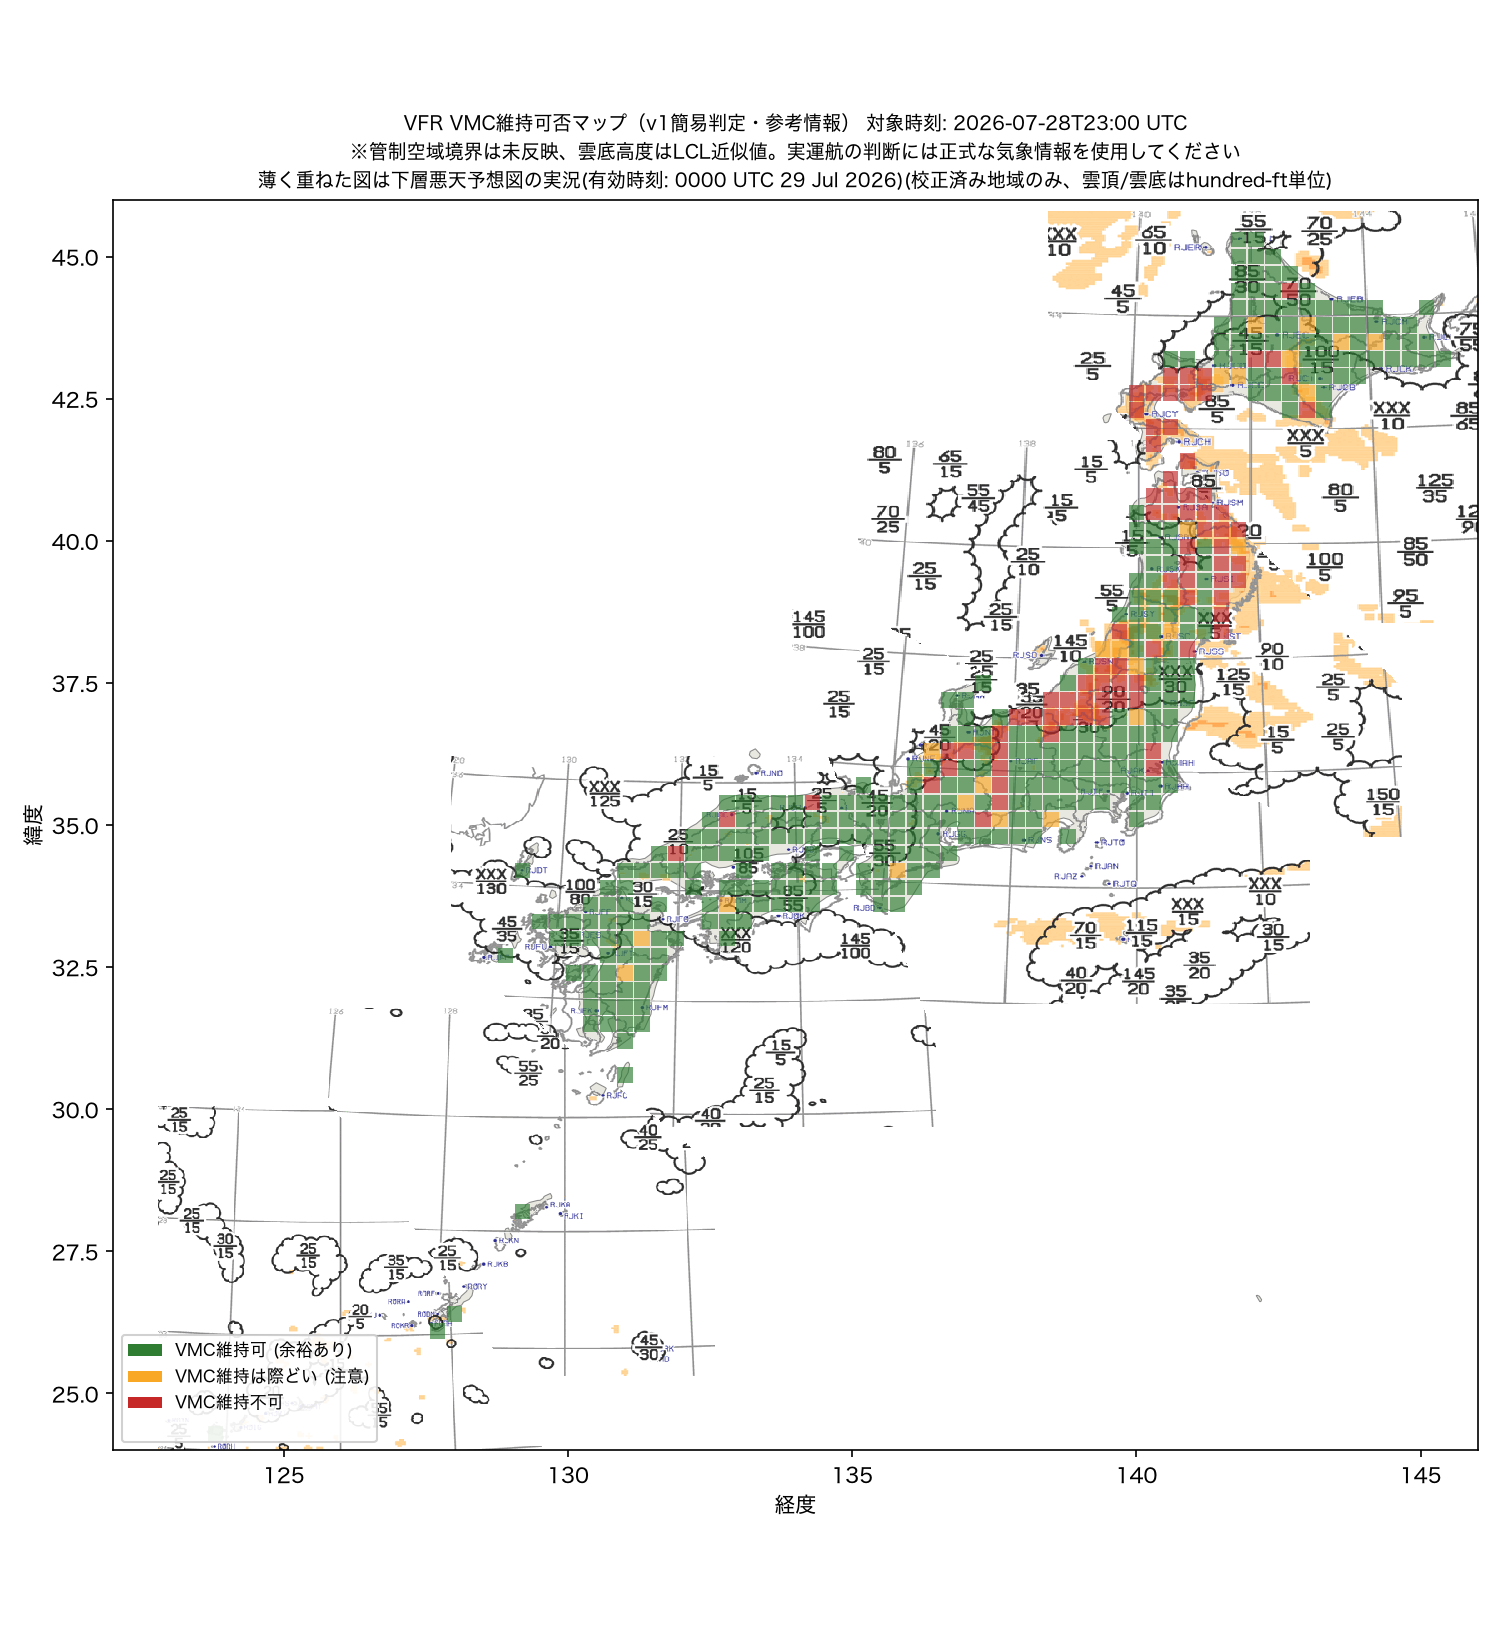
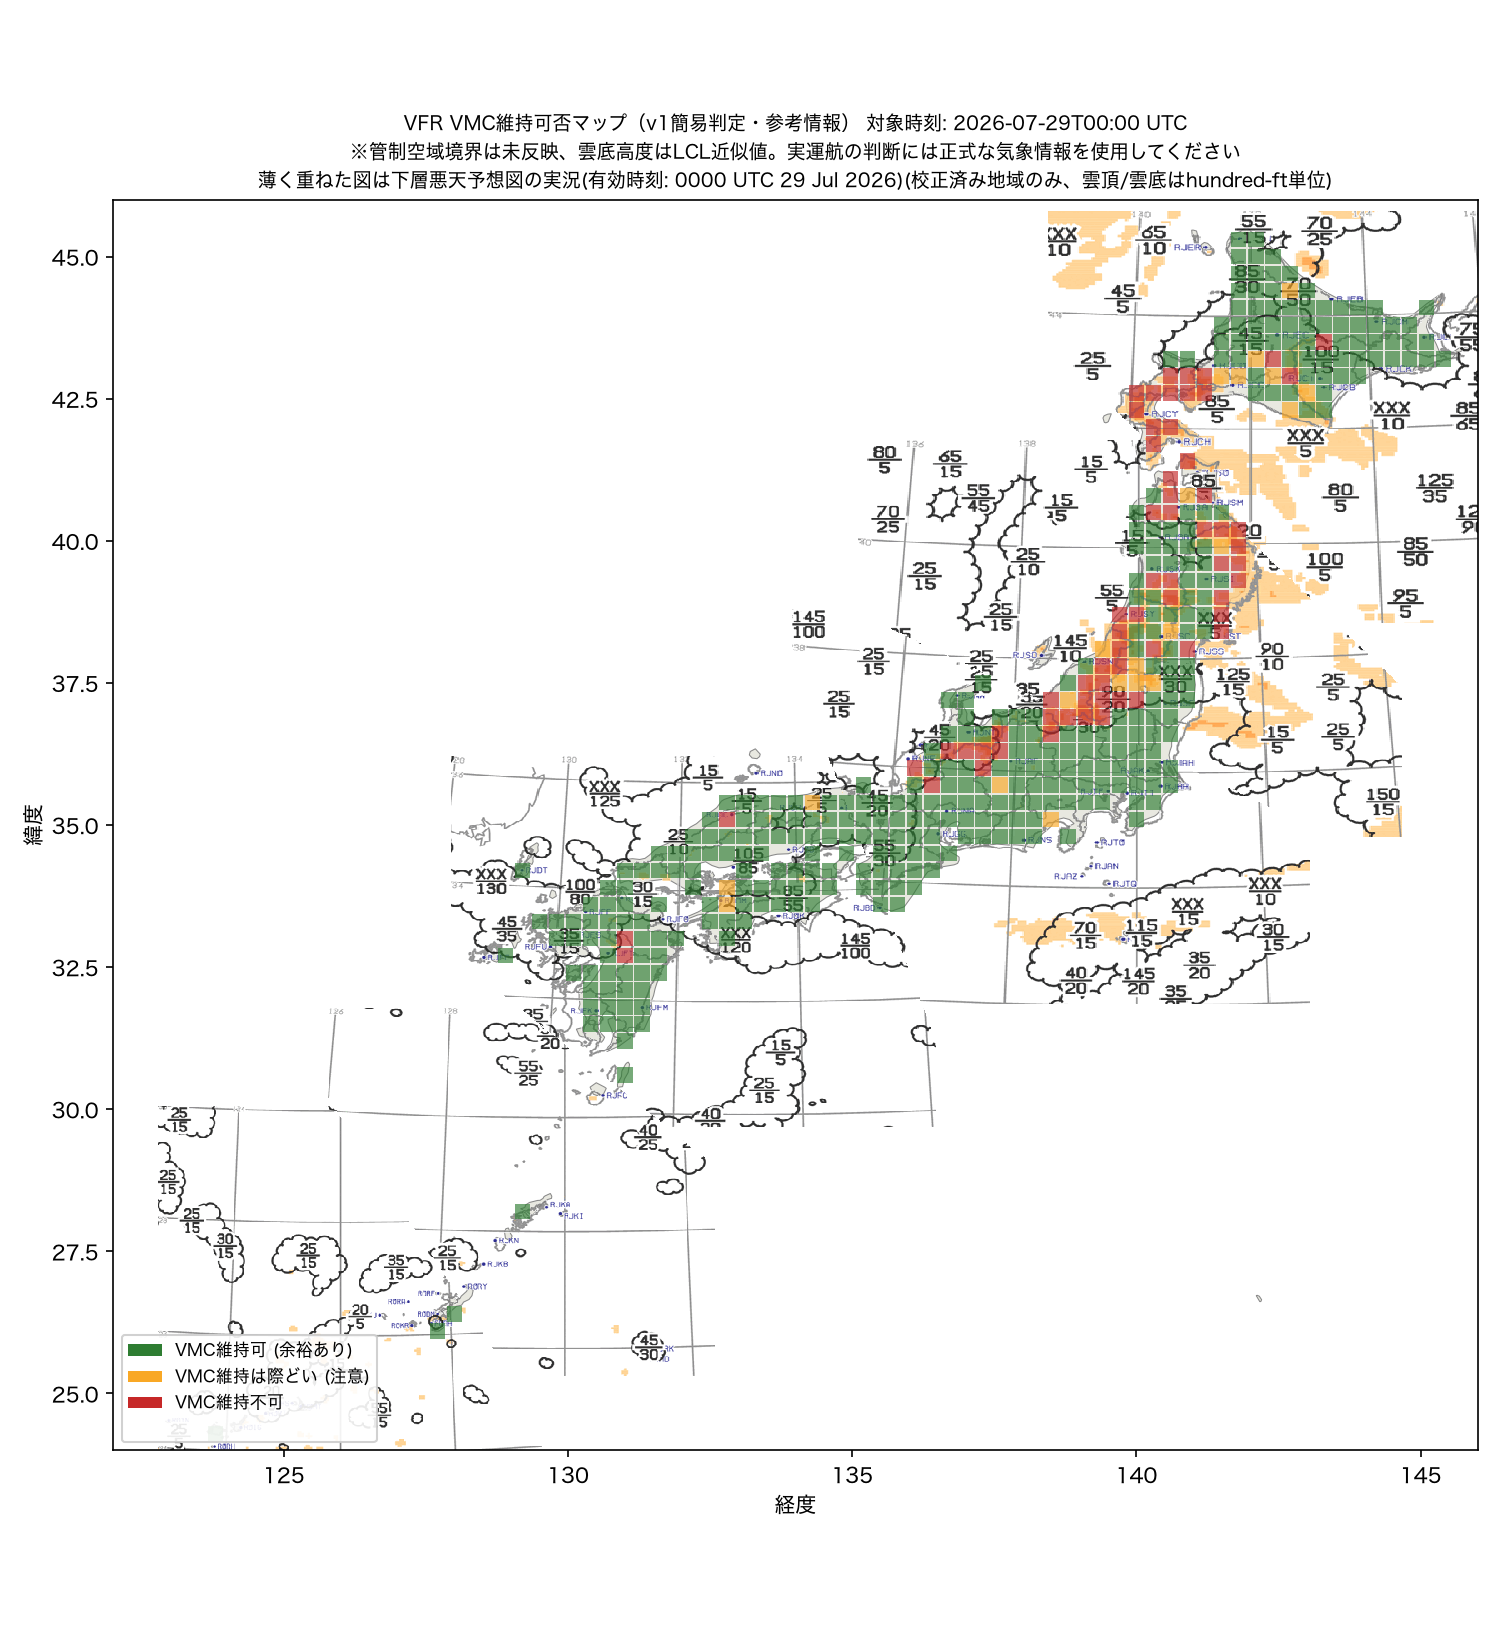
Update VMC map

diff --git a/index.html b/index.html
@@ -3,7 +3,7 @@
 <head>
 <meta charset="utf-8">
 <meta name="viewport" content="width=device-width, initial-scale=1">
-<title>VFR VMC 維持可否マップ (対象時刻: 2026-07-28T23:00 UTC)</title>
+<title>VFR VMC 維持可否マップ (対象時刻: 2026-07-29T00:00 UTC)</title>
 <style>
   :root {
     --bg: #eef1f5; --surface: #ffffff; --text: #1b2530; --text-muted: #5b6b7d;
@@ -95,7 +95,7 @@
     <h1>VFR VMC 維持可否マップ</h1>
     <p class="subtitle">日本全国、地形と雲底の隙間からVMC(視認気象状態)を維持できるかを判定した参考マップです。v1簡易判定につき、実運航の判断には正式な気象情報を使用してください。</p>
     <div class="chips">
-      <span class="chip">気象予報 対象時刻 <b>2026-07-28T23:00 UTC</b></span>
+      <span class="chip">気象予報 対象時刻 <b>2026-07-29T00:00 UTC</b></span>
       <span class="chip">下層悪天予想図 有効時刻 <b>0000 UTC 29 Jul 2026</b></span>
     </div>
   </header>
